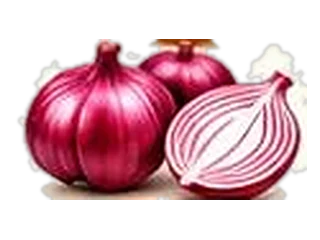
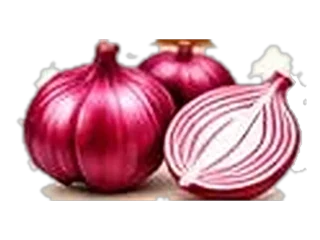
World-class link previews for WhatsApp and social networks
- New share card img/og-v2.jpg (1200x630, 139 KB, under WhatsApp's 300 KB
  limit for large previews): brand green, Bricolage/DM Sans typography,
  "Tu mercado, a tu puerta." headline, real produce photos from the flyer on a
  cream plate, delivery and yapa chips, domain
- Versioned filename so WhatsApp/Facebook fetch the new image instead of the
  cached og.png (removed)
- Open Graph: stronger title and description, image type, secure_url, alt,
  alternate locale; Twitter card title/description/alt; image_src fallback
- Product photos: light halos touching the transparent edge removed; dark
  mode shows them on a cream backdrop so the cut-out shadows blend in
- README: how to refresh an already-shared preview

Claude-Session: https://claude.ai/code/session_013j2bm5kUQ4RzREZQXZN7tw

diff --git a/index.html b/index.html
@@ -4,23 +4,28 @@
 <meta charset="UTF-8">
 <meta name="viewport" content="width=device-width, initial-scale=1, viewport-fit=cover">
 <title>El Mercado de Amazonas · Tu mercado, a tu puerta</title>
-<meta name="description" content="Frutas, verduras, carnes y abarrotes frescos del mercado a tu puerta, el mismo día. Arma tu canasta y confirma por WhatsApp.">
+<meta name="description" content="Frutas, verduras y abarrotes frescos del mercado. Arma tu canasta en un minuto, confírmala por WhatsApp y recíbela hoy. Delivery el mismo día y yapa desde S/ 30.">
 <meta name="theme-color" content="#146B3A">
 <link rel="canonical" href="https://elmercadodeas.web.app/">
 <meta property="og:type" content="website">
 <meta property="og:site_name" content="El Mercado de Amazonas">
-<meta property="og:title" content="El Mercado de Amazonas · Tu mercado, a tu puerta">
-<meta property="og:description" content="Frutas, verduras, carnes y abarrotes frescos del mercado a tu puerta, el mismo día. Arma tu canasta y confirma por WhatsApp.">
-<meta property="og:image" content="https://elmercadodeas.web.app/img/og.png">
+<meta property="og:locale" content="es_PE">
+<meta property="og:locale:alternate" content="en_US">
+<meta property="og:url" content="https://elmercadodeas.web.app/">
+<meta property="og:title" content="El Mercado de Amazonas · Frutas y verduras frescas a tu puerta">
+<meta property="og:description" content="Arma tu canasta en un minuto y confírmala por WhatsApp 🛵 Delivery el mismo día 🎁 Yapa gratis desde S/ 30">
+<meta property="og:image" content="https://elmercadodeas.web.app/img/og-v2.jpg">
+<meta property="og:image:secure_url" content="https://elmercadodeas.web.app/img/og-v2.jpg">
+<meta property="og:image:type" content="image/jpeg">
 <meta property="og:image:width" content="1200">
 <meta property="og:image:height" content="630">
-<meta property="og:image:alt" content="El Mercado de Amazonas · Tu mercado, a tu puerta.">
-<meta property="og:url" content="https://elmercadodeas.web.app/">
-<meta property="og:locale" content="es_PE">
+<meta property="og:image:alt" content="El Mercado de Amazonas: tu mercado, a tu puerta. Rocoto, ají amarillo, zapallo, maracuyá, maíz morado, cebolla, limón y papa.">
 <meta name="twitter:card" content="summary_large_image">
-<meta name="twitter:title" content="El Mercado de Amazonas · Tu mercado, a tu puerta">
-<meta name="twitter:description" content="Frutas, verduras, carnes y abarrotes frescos del mercado a tu puerta, el mismo día.">
-<meta name="twitter:image" content="https://elmercadodeas.web.app/img/og.png">
+<meta name="twitter:title" content="El Mercado de Amazonas · Frutas y verduras frescas a tu puerta">
+<meta name="twitter:description" content="Arma tu canasta en un minuto y confírmala por WhatsApp. Delivery el mismo día y yapa gratis desde S/ 30.">
+<meta name="twitter:image" content="https://elmercadodeas.web.app/img/og-v2.jpg">
+<meta name="twitter:image:alt" content="El Mercado de Amazonas: tu mercado, a tu puerta.">
+<link rel="image_src" href="https://elmercadodeas.web.app/img/og-v2.jpg">
 <link rel="manifest" href="/manifest.json">
 <link rel="icon" href="/img/icon-192.png" type="image/png">
 <link rel="apple-touch-icon" href="/img/apple-touch-icon.png">

diff --git a/css/styles.css b/css/styles.css
@@ -485,3 +485,7 @@ input.traduciendo { background-image: linear-gradient(100deg, var(--papel) 40%, 
 @media (max-width: 768px) { .lista .item .subcat input { width: 100%; } .subcat { flex-wrap: wrap; width: 100%; } }
 .paso-uni { display: inline-flex; align-items: center; gap: .3rem; font-size: .78rem; font-weight: 700; color: var(--tinta-2); }
 .lista .item .paso-uni input { width: 4.6rem; padding: .35rem .45rem; }
+
+/* modo oscuro: las fotos de producto llevan sombras claras del recorte; un fondo crema las integra */
+:root[data-theme="dark"] .prod .icono:has(img), :root[data-theme="dark"] .linea .icono:has(img) { background: #F3EEDF; border-radius: 14px; }
+@media (prefers-color-scheme: dark) { :root:not([data-theme="light"]) .prod .icono:has(img), :root:not([data-theme="light"]) .linea .icono:has(img) { background: #F3EEDF; border-radius: 14px; } }

diff --git a/README.md b/README.md
@@ -22,7 +22,7 @@ No hay contenido en HTML estático: toda la interfaz se construye desde JavaScri
 | `storage.rules` | Reglas de Storage para las imágenes de producto. |
 | `sw.js`, `manifest.json` | App instalable (PWA): caché del shell y modo standalone. |
 | `404.html` | Página de error con el mismo estilo. |
-| `img/` | Ícono de la app, `apple-touch-icon` e imagen para compartir (`og.png`). |
+| `img/` | Ícono de la app, `apple-touch-icon` e imagen para compartir (`og-v2.jpg`). |
 | `img/productos/` | Fotos de producto recortadas del volante "Verduras a domicilio" (fondo transparente, WebP). Se usan automáticamente si el producto se llama igual y no tiene foto propia. |
 | `scripts/seed.mjs` | Carga el catálogo de ejemplo desde Cloud Shell. |
 | `firebase.json` | Configuración de Firebase Hosting. |
@@ -107,7 +107,8 @@ Después, los **precios se cambian en línea** en la tabla de Productos (escribe
 ## PWA y compartir
 
 - `manifest.json` + `sw.js`: instalable en el teléfono; el shell se sirve desde caché y los datos de Firebase siempre van por red. Aparece un banner "Instalar app" cuando el navegador lo permite; se puede cerrar y no vuelve a molestar.
-- Open Graph y Twitter Card en `index.html` con `img/og.png` (1200×630), para que el enlace se vea bien en WhatsApp y redes.
+- Open Graph y Twitter Card en `index.html` con `img/og-v2.jpg` (1200×630, menos de 300 KB, que es lo que WhatsApp necesita para la vista grande). El nombre lleva versión: si cambias la imagen, súbela como `og-v3.jpg` y actualiza las etiquetas, así WhatsApp y Facebook no siguen mostrando la anterior.
+- Para refrescar una vista previa ya compartida: en Facebook usa el [Depurador de contenido compartido](https://developers.facebook.com/tools/debug/) → "Volver a extraer"; WhatsApp guarda la vista previa por enlace, así que comparte `https://elmercadodeas.web.app/?v=2` para forzar una nueva.
 
 ## Fotos de producto
 
